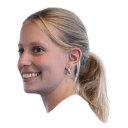
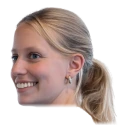
Klipp bort halsen på Tyras ansikte
Snittet går rakt under hakan och följer sedan håret ner i hästsvansen,
med mjuk kant i stället för rakbladssnitt. Svansens tunna spets kortas
också, annars sträcker den ut bildrutan så att huvudet blir mindre än
de andras. Nu sitter huvudet på surfarkroppen som alla andra.

Service workern går till v6 så att den nya bilden (samma filnamn) når
alla direkt.

Claude-Session: https://claude.ai/code/session_01JQd119thzeA5XJwufyzwXa

diff --git a/sw.js b/sw.js
@@ -11,7 +11,7 @@
      alltid nätet först, så att texter och partyhattar aldrig fastnar
    · film och kartrutor cachas inte – de skulle äta upp telefonen */
 
-const VERSION = 'v5';
+const VERSION = 'v6';
 const CACHE = `kusin-${VERSION}`;
 
 // Sidskalet som ska finnas offline. Stora medier (mp4) står med flit inte här.
